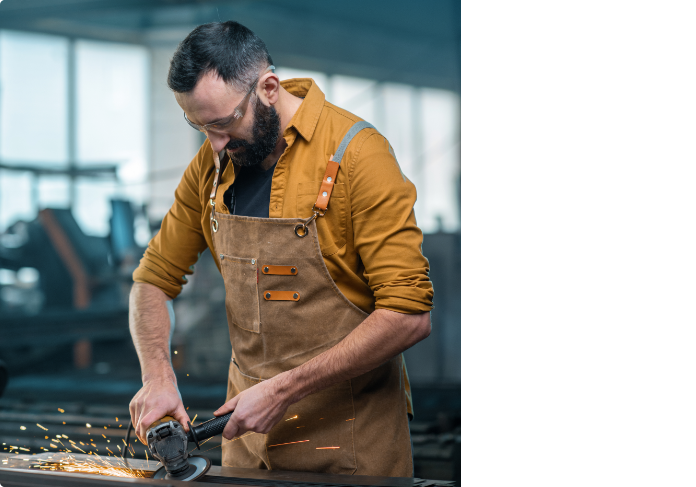
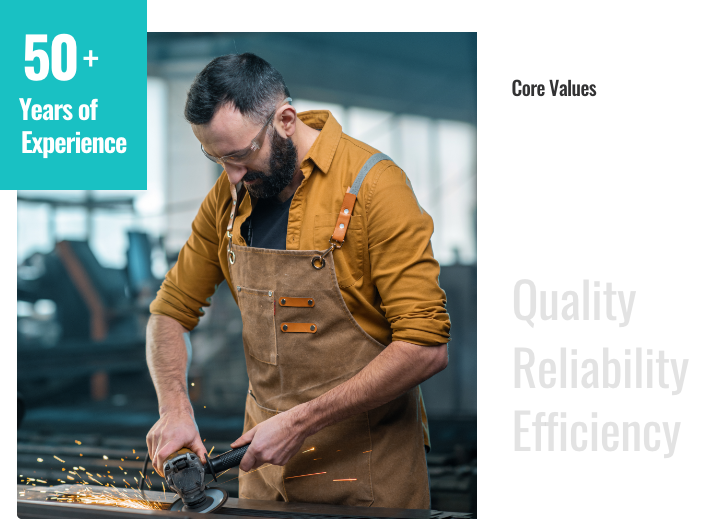
img

diff --git a/index.html b/index.html
@@ -164,7 +164,7 @@
   <div class="container-fluid g-gray-bg10  g-mb-151" id="company">
             <div class="row ">
                 <div class="col-lg-2"></div>
-            <div class="col-lg-5 col-md-6 g-pr-20 g-pb-50  g-md-mr-0 ">
+            <div class="col-lg-5 col-md-12 g-pr-20 g-pb-50  g-md-mr-0 ">
                 <div class="sk-company-title g-white sk-oswald-bold  g-fs-37 g-md-fs-30 g-sm-fs-28 g-xs-fs-25  g-fw-bold g-pt-100 g-mb-16">
                     Why Choose  <span class="g-fs-37 sk-oswald-bold g-lightgreen g-md-fs-30 g-sm-fs-28 g-xs-fs-25  g-fw-bold g-pt-100 g-mb-16"> Global Enterprise.</span>
                 </div>
@@ -208,8 +208,8 @@
                 </div>
             </div>
         
-            <div class="col-lg-5 col-md-6 g-p-0 g-mt-neg-30 g-bdr-top g-md-mb-20  g-sm-mb-20  g-xs-mb-20 6 g-h-747px g-black-bg1 g-pos-relative ">
-               
+            <div class="col-lg-5 col-md-12 g-p-0 g-mt-neg-30     g-pos-relative ">
+                <img src="./assets/img/sk-machine.png" class="g-bdr-top" alt="img">
             </div>
         </div>
   </div>
@@ -241,68 +241,68 @@
         <div class="col-md-2"></div>
     </div>
     <div class="sk-rows sk-Industries">
-        <div class="sk-Industry-types">
-            <img src="./assets/img/svg/sk-icon-1.svg" alt="img" class="g-xs-w-100px g-w-180px">
+        <div class="sk-Industry-types g-gray-bg">
+            <img src="./assets/img/svg/sk-icon-1.svg" alt="img" class="g-xs-w-100px g-w-150px">
             <div class="g-fs-13 g-gray20 sk-oswald-bold">
                 Air Dryers &<br> Compressors
             </div>
         </div>
-        <div class="sk-Industry-types">
-            <img src="./assets/img/svg/sk-icon-2.svg" alt="img" class="g-xs-w-100px g-w-180px">
+        <div class="sk-Industry-types g-gray-bg">
+            <img src="./assets/img/svg/sk-icon-2.svg" alt="img" class="g-xs-w-100px g-w-150px">
             <div class="g-fs-13 g-gray20 sk-oswald-bold">
                 Automation &<br> Switchgear
             </div>
         </div>
-        <div class="sk-Industry-types">
-            <img src="./assets/img/svg/sk-icon-3.svg" alt="img" class="g-xs-w-100px g-w-180px">
+        <div class="sk-Industry-types g-gray-bg">
+            <img src="./assets/img/svg/sk-icon-3.svg" alt="img" class="g-xs-w-100px g-w-150px">
             <div class="g-fs-13 g-gray20 sk-oswald-bold">
                 DRIVES & <br> TRANSMISSION SPARES
             </div>
         </div>
-        <div class="sk-Industry-types">
-            <img src="./assets/img/svg/sk-icon-4.svg" alt="img" class="g-xs-w-100px g-w-180px">
+        <div class="sk-Industry-types g-gray-bg">
+            <img src="./assets/img/svg/sk-icon-4.svg" alt="img" class="g-xs-w-100px g-w-150px">
             <div class="g-fs-13 g-gray20 sk-oswald-bold">
                 INSTRUMENTATION &<br> PUMPS
             </div>
         </div>
-        <div class="sk-Industry-types">
-            <img src="./assets/img/svg/sk-icon-5.svg" alt="img" class="g-xs-w-100px g-w-180px">
+        <div class="sk-Industry-types g-gray-bg">
+            <img src="./assets/img/svg/sk-icon-5.svg" alt="img" class="g-xs-w-100px g-w-150px">
             <div class="g-fs-13 g-gray20 sk-oswald-bold">
                 MECHANICAL PARTS
             </div>
         </div>
-        <div class="sk-Industry-types">
-            <img src="./assets/img/svg/sk-icon-6.svg" alt="img" class="g-xs-w-100px g-w-180px">
+        <div class="sk-Industry-types g-gray-bg">
+            <img src="./assets/img/svg/sk-icon-6.svg" alt="img" class="g-xs-w-100px g-w-150px">
             <div class="g-fs-13 g-gray20 sk-oswald-bold">
                 Pneumatic &<br> Hydraulic Spares
             </div>
         </div>
-        <div class="sk-Industry-types">
-            <img src="./assets/img/svg/sk-icon-7.svg" alt="img" class="g-xs-w-100px g-w-180px">
+        <div class="sk-Industry-types g-gray-bg">
+            <img src="./assets/img/svg/sk-icon-7.svg" alt="img" class="g-xs-w-100px g-w-150px">
             <div class="g-fs-13 g-gray20 sk-oswald-bold">
                 Valves,Actuators &<br> Accessories
             </div>
         </div>
-        <div class="sk-Industry-types">
-            <img src="./assets/img/svg/sk-icon-8.svg" alt="img" class="g-xs-w-100px g-w-180px">
+        <div class="sk-Industry-types g-gray-bg">
+            <img src="./assets/img/svg/sk-icon-8.svg" alt="img" class="g-xs-w-100px g-w-150px">
             <div class="g-fs-13 g-gray20 sk-oswald-bold">
                 Pipes &<br> Fittings
             </div>
         </div>
-        <div class="sk-Industry-types">
-            <img src="./assets/img/svg/sk-icon-9.svg" alt="img" class="g-xs-w-100px g-w-180px">
+        <div class="sk-Industry-types g-gray-bg">
+            <img src="./assets/img/svg/sk-icon-9.svg" alt="img" class="g-xs-w-100px g-w-150px">
             <div class="g-fs-13 g-gray20 sk-oswald-bold">
                 Laboratory Equipment
             </div>
         </div>
-        <div class="sk-Industry-types">
-            <img src="./assets/img/svg/sk-icon-1.svg" alt="img" class="g-xs-w-100px g-w-180px">
+        <div class="sk-Industry-types g-gray-bg">
+            <img src="./assets/img/svg/sk-icon-1.svg" alt="img" class="g-xs-w-100px g-w-150px">
             <div class="g-fs-13 g-gray20 sk-oswald-bold">
                 Air Dryers<br> & Compressors
             </div>
         </div>
-        <div class="sk-Industry-types">
-            <img src="./assets/img/svg/sk-icon-2.svg" alt="img" class="g-xs-w-100px g-w-180px">
+        <div class="sk-Industry-types g-gray-bg">
+            <img src="./assets/img/svg/sk-icon-2.svg" alt="img" class="g-xs-w-100px g-w-150px">
             <div class="g-fs-13 g-gray20 sk-oswald-bold">
                 Automation &<br> Switchgear
             </div>
@@ -368,33 +368,33 @@
         <div class="owl-carousel sk-card-carousel owl-theme">
             <div class="item">
                 <div class="sk-project-box g-cursor-pointer    g-xs-ml-0 g-xs-mr-0  g-gray-bg1  g-pos-relative ">
-                    <img src="./assets/img/sk-carousel.jpg" alt="img">
-                    <div class="sk-project-tag g-maxw-166px g-white-bg g-gray20 g-h-119px  g-fs-13 g-font-1 g-fw-bold g-pos-absolute-3 g-pl-08 g-pr-08 g-pt-15 g-pb-08">
-                        Industrial Construction 
+                    <img src="./assets/img/sk-oil.png" alt="img">
+                    <div class="sk-project-tag g-w-167px g-white-bg g-gray20 g-h-119px  g-fs-13 g-font-1 g-fw-bold g-pos-absolute-3 g-pl-08 g-pr-08 g-pt-15 g-pb-08">
+                        Oil & Gas
                     </div>
                 </div>
             </div>
             <div class="item">
                 <div class="sk-project-box g-cursor-pointer    g-xs-ml-0 g-xs-mr-0  g-gray-bg1  g-pos-relative">
-                    <img src="./assets/img/sk-carousel.jpg" alt="img">
-                    <div class="sk-project-tag g-fs-13 g-font-1 g-fw-bold g-maxw-166px g-white-bg g-gray20 g-h-119px   g-pos-absolute-3  g-pl-08 g-pr-08 g-pt-17 g-pb-08">
-                        Industrial Construction 
+                    <img src="./assets/img/sk-petrol.png" alt="img">
+                    <div class="sk-project-tag g-fs-13 g-font-1 g-fw-bold g-w-167px g-white-bg g-gray20 g-h-119px   g-pos-absolute-3  g-pl-08 g-pr-08 g-pt-17 g-pb-08">
+                        Petrochemical 
                     </div>
                 </div>
             </div>
             <div class="item">
                 <div class="sk-project-box  g-cursor-pointer   g-xs-ml-0 g-xs-mr-0  g-gray-bg1  g-pos-relative">
-                    <img src="./assets/img/sk-carousel.jpg" alt="img">
-                    <div class="sk-project-tag g-maxw-166px g-white-bg g-gray20 g-h-119px  g-fs-13 g-font-1 g-fw-bold g-pos-absolute-3  g-pl-08 g-pr-08 g-pt-15 g-pb-08">
-                        Industrial Construction 
+                    <img src="./assets/img/sk-pharm.png" alt="img">
+                    <div class="sk-project-tag g-w-167px g-white-bg g-gray20 g-h-119px  g-fs-13 g-font-1 g-fw-bold g-pos-absolute-3  g-pl-08 g-pr-08 g-pt-15 g-pb-08">
+                        Pharmaceutical
                     </div>
                 </div>
             </div>
             <div class="item">
                 <div class="sk-project-box g-cursor-pointer    g-xs-ml-0 g-xs-mr-0  g-gray-bg1  g-pos-relative">
-                    <img src="./assets/img/sk-carousel.jpg" alt="img">
-                    <div class="sk-project-tag g-maxw-166px g-white-bg g-gray20 g-h-119px  g-fs-13 g-font-1 g-fw-bold g-pos-absolute-3  g-pl-08 g-pr-08 g-pt-15 g-pb-08">
-                        Industrial Construction 
+                    <img src="./assets/img/sk-power.png" alt="img">
+                    <div class="sk-project-tag g-w-167px g-white-bg g-gray20 g-h-119px  g-fs-13 g-font-1 g-fw-bold g-pos-absolute-3  g-pl-08 g-pr-08 g-pt-15 g-pb-08">
+                        Power Generation
                     </div>
                 </div>
             </div>

diff --git a/assets/css/style.css b/assets/css/style.css
@@ -5624,6 +5624,7 @@ input, button{ border: none !important; outline: none !important; }
 .g-maxw-362px{max-width: 362px !important;}
 .g-maxw-357px{max-width: 357px !important;}
 .g-maxw-21px{max-width: 21px !important;}
+.g-w-167px{width: 167px !important;}
 .g-maxw-584px{max-width: 584px !important;}
 .g-maxw-298px{max-width: 298px !important;}
 .g-max-268px{max-width: 268px !important;}
@@ -6153,6 +6154,6 @@ input[type="range"]::-webkit-range-thumb {
   }
 
   .sk-Industry-types{
-	  flex-basis: 25%;
+	  flex-basis: 30%;
 	  text-align: center;
   }
